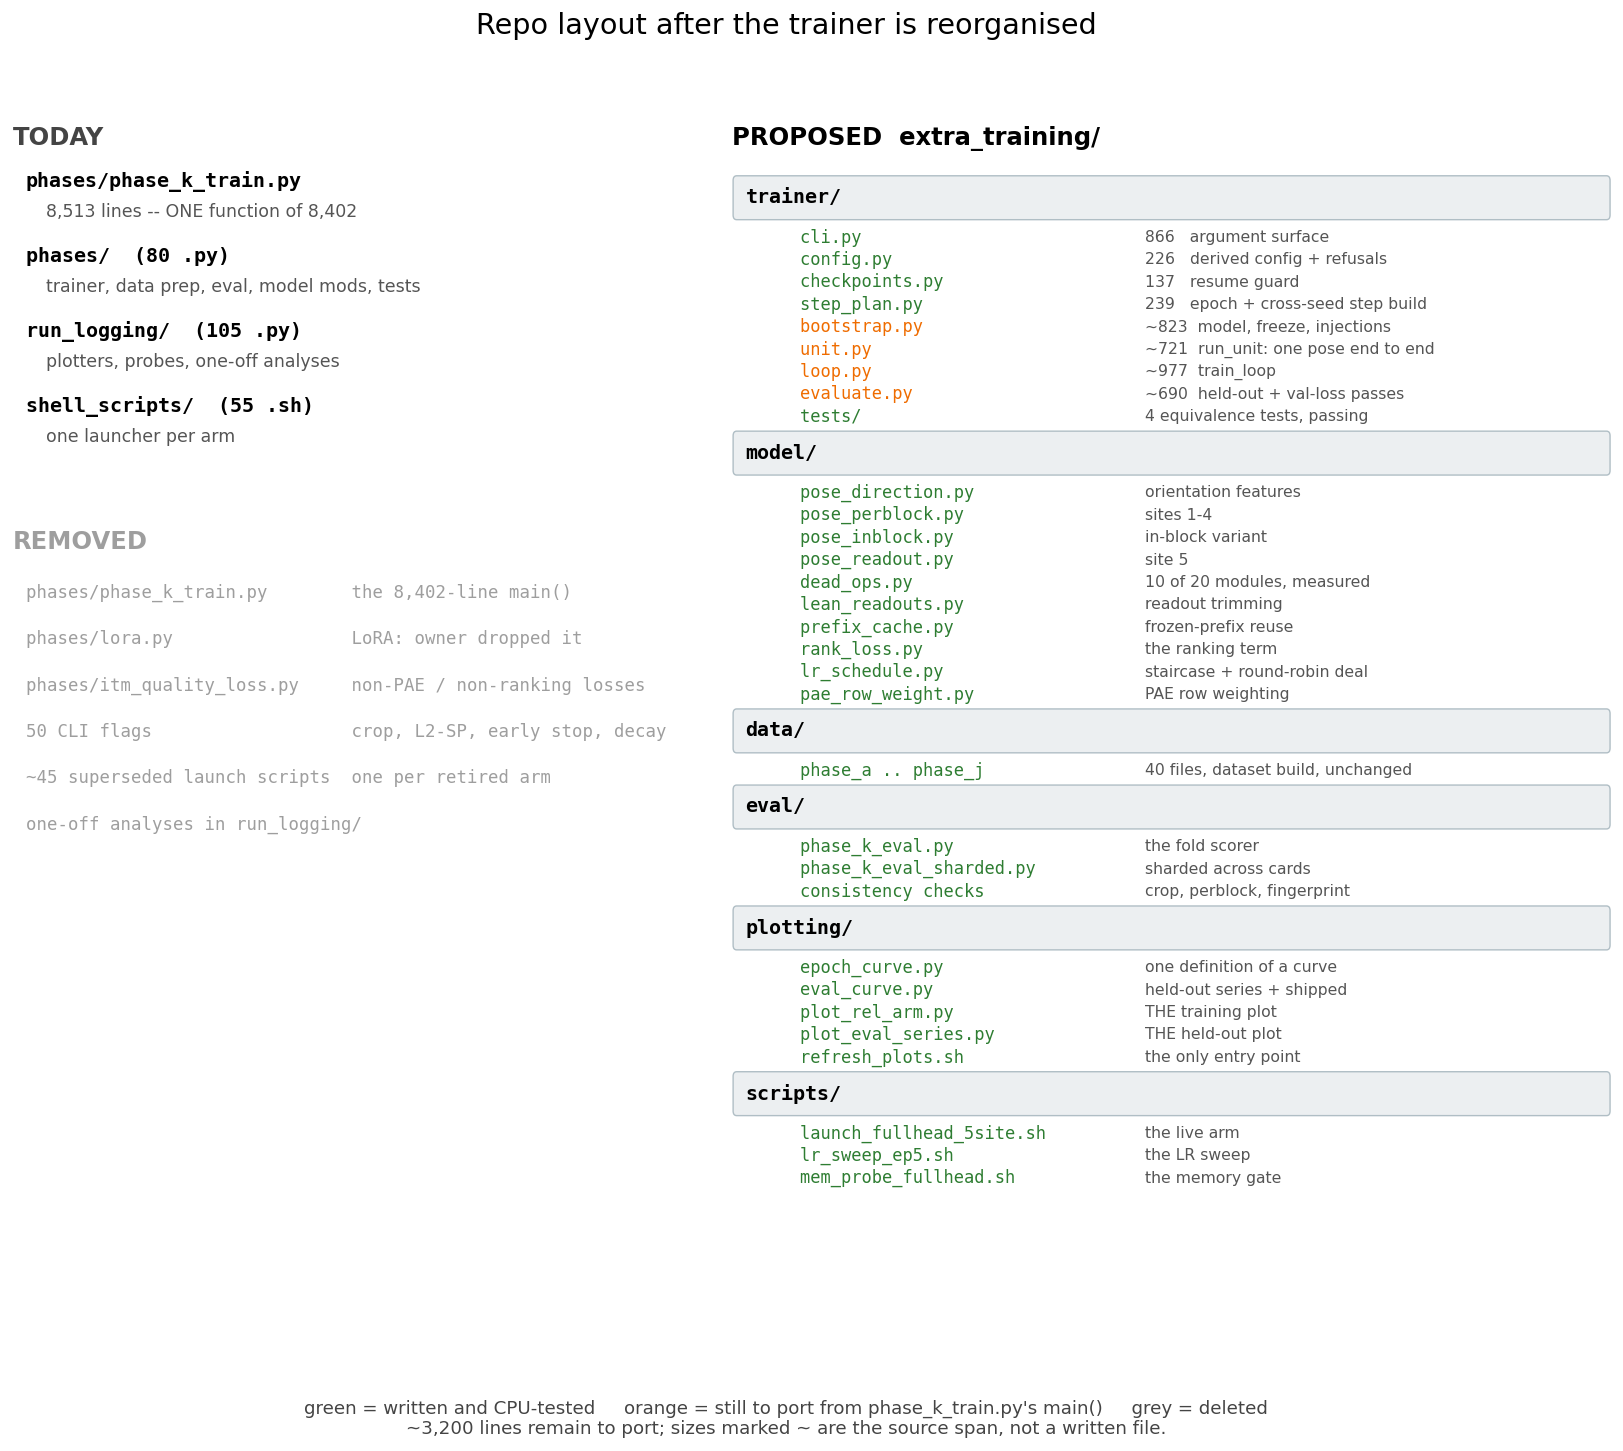
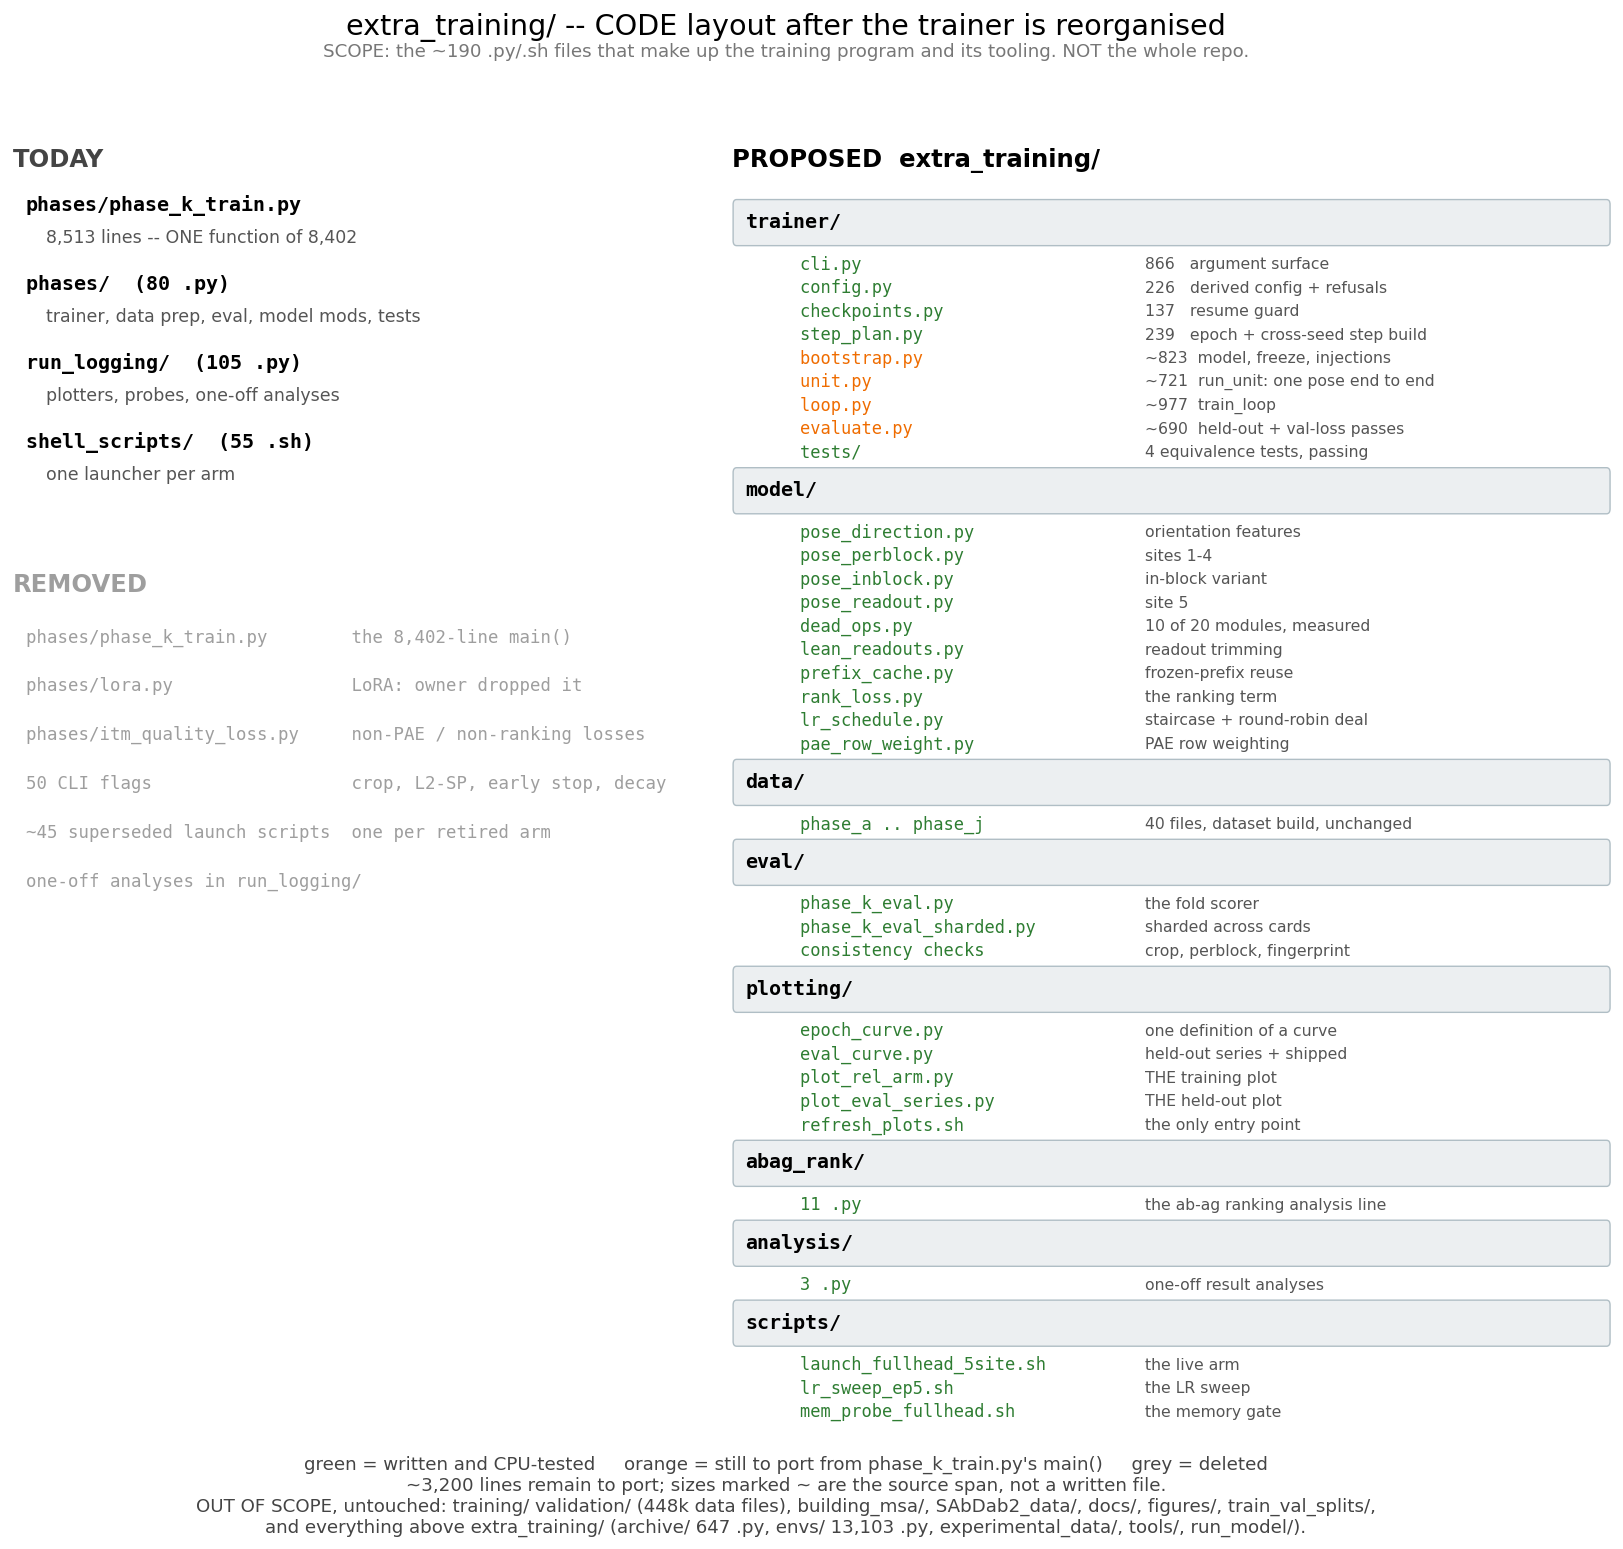
repo_layout figure: correct the scope, add abag_rank/ and analysis/
The title said "Repo layout", which overclaimed. The figure covers only the ~190 .py/.sh
files of the training program and its tooling inside extra_training/. It silently omitted
abag_rank/ (11 .py) and analysis/ (3 .py), which are real code, and it did not say what it
was leaving out. Both fixed: the omitted directories are drawn, and the caption now names
what is untouched -- training/ and validation/ (448k data files), building_msa/,
SAbDab2_data/, docs/, figures/, train_val_splits/, and everything above extra_training/
(archive/ 647 .py, envs/ 13,103 .py, experimental_data/, tools/, run_model/).

Claude-Session: https://claude.ai/code/session_014t55QPNWnMkjqFi95YVBtG

diff --git a/extra_training/run_logging/plot_repo_layout.py b/extra_training/run_logging/plot_repo_layout.py
@@ -54,6 +54,10 @@ PROPOSED = [
     ("    plot_rel_arm.py",     "THE training plot",                DONE),
     ("    plot_eval_series.py", "THE held-out plot",                DONE),
     ("    refresh_plots.sh",    "the only entry point",             DONE),
+    ("abag_rank/", "", None),
+    ("    11 .py", "the ab-ag ranking analysis line", DONE),
+    ("analysis/", "", None),
+    ("    3 .py", "one-off result analyses", DONE),
     ("scripts/", "", None),
     ("    launch_fullhead_5site.sh", "the live arm",                DONE),
     ("    lr_sweep_ep5.sh",         "the LR sweep",                 DONE),
@@ -71,7 +75,7 @@ REMOVED = [
 
 
 def main(out="figures/repo_layout.png"):
-    fig = plt.figure(figsize=(16.5, 12.0))
+    fig = plt.figure(figsize=(16.5, 12.6))
     gs = fig.add_gridspec(2, 2, height_ratios=[1, 2.35], width_ratios=[1, 1.32],
                           hspace=0.16, wspace=0.07)
 
@@ -108,11 +112,20 @@ def main(out="figures/repo_layout.png"):
         axP.text(0.470, y, note, fontsize=9.0, va="center", color="#555")
         y -= 0.0194
 
-    fig.suptitle("Repo layout after the trainer is reorganised", fontsize=16.5, y=0.975)
-    fig.text(0.5, 0.027,
+    fig.suptitle("extra_training/ -- CODE layout after the trainer is reorganised",
+                 fontsize=16.5, y=0.985)
+    fig.text(0.5, 0.957,
+             "SCOPE: the ~190 .py/.sh files that make up the training program and its tooling. "
+             "NOT the whole repo.",
+             ha="center", fontsize=10.5, color="#777")
+    fig.text(0.5, 0.020,
              "green = written and CPU-tested     orange = still to port from phase_k_train.py's main()     "
              "grey = deleted\n"
-             "~3,200 lines remain to port; sizes marked ~ are the source span, not a written file.",
+             "~3,200 lines remain to port; sizes marked ~ are the source span, not a written file.\n"
+             "OUT OF SCOPE, untouched: training/ validation/ (448k data files), building_msa/, "
+             "SAbDab2_data/, docs/, figures/, train_val_splits/,\n"
+             "and everything above extra_training/ (archive/ 647 .py, envs/ 13,103 .py, "
+             "experimental_data/, tools/, run_model/).",
              ha="center", fontsize=10.5, color="#444")
     os.makedirs(os.path.dirname(out) or ".", exist_ok=True)
     fig.savefig(out, dpi=125, bbox_inches="tight", facecolor="white")
